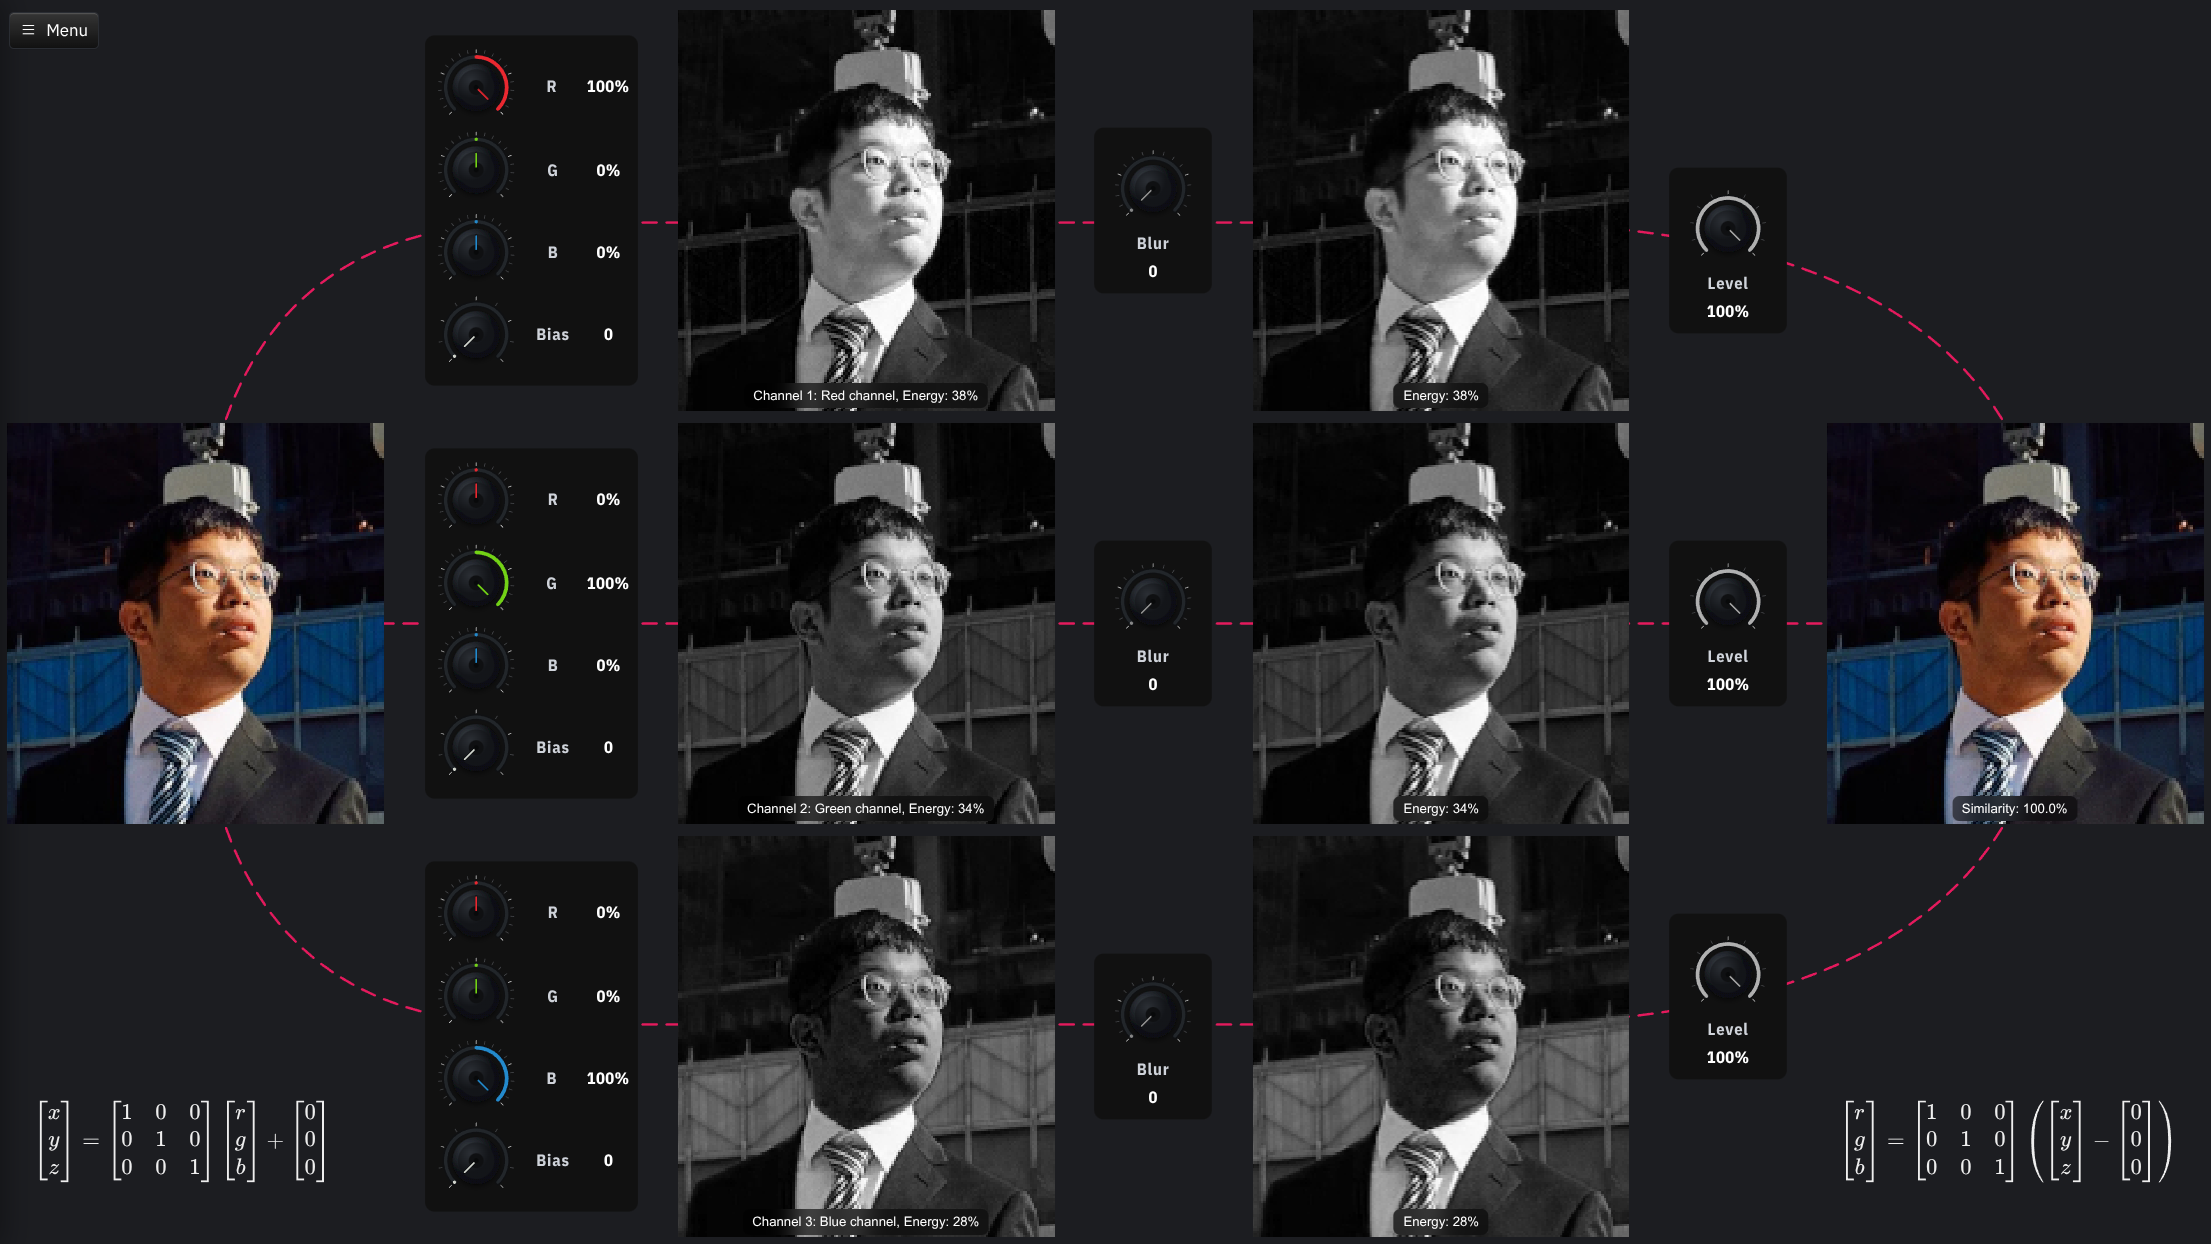
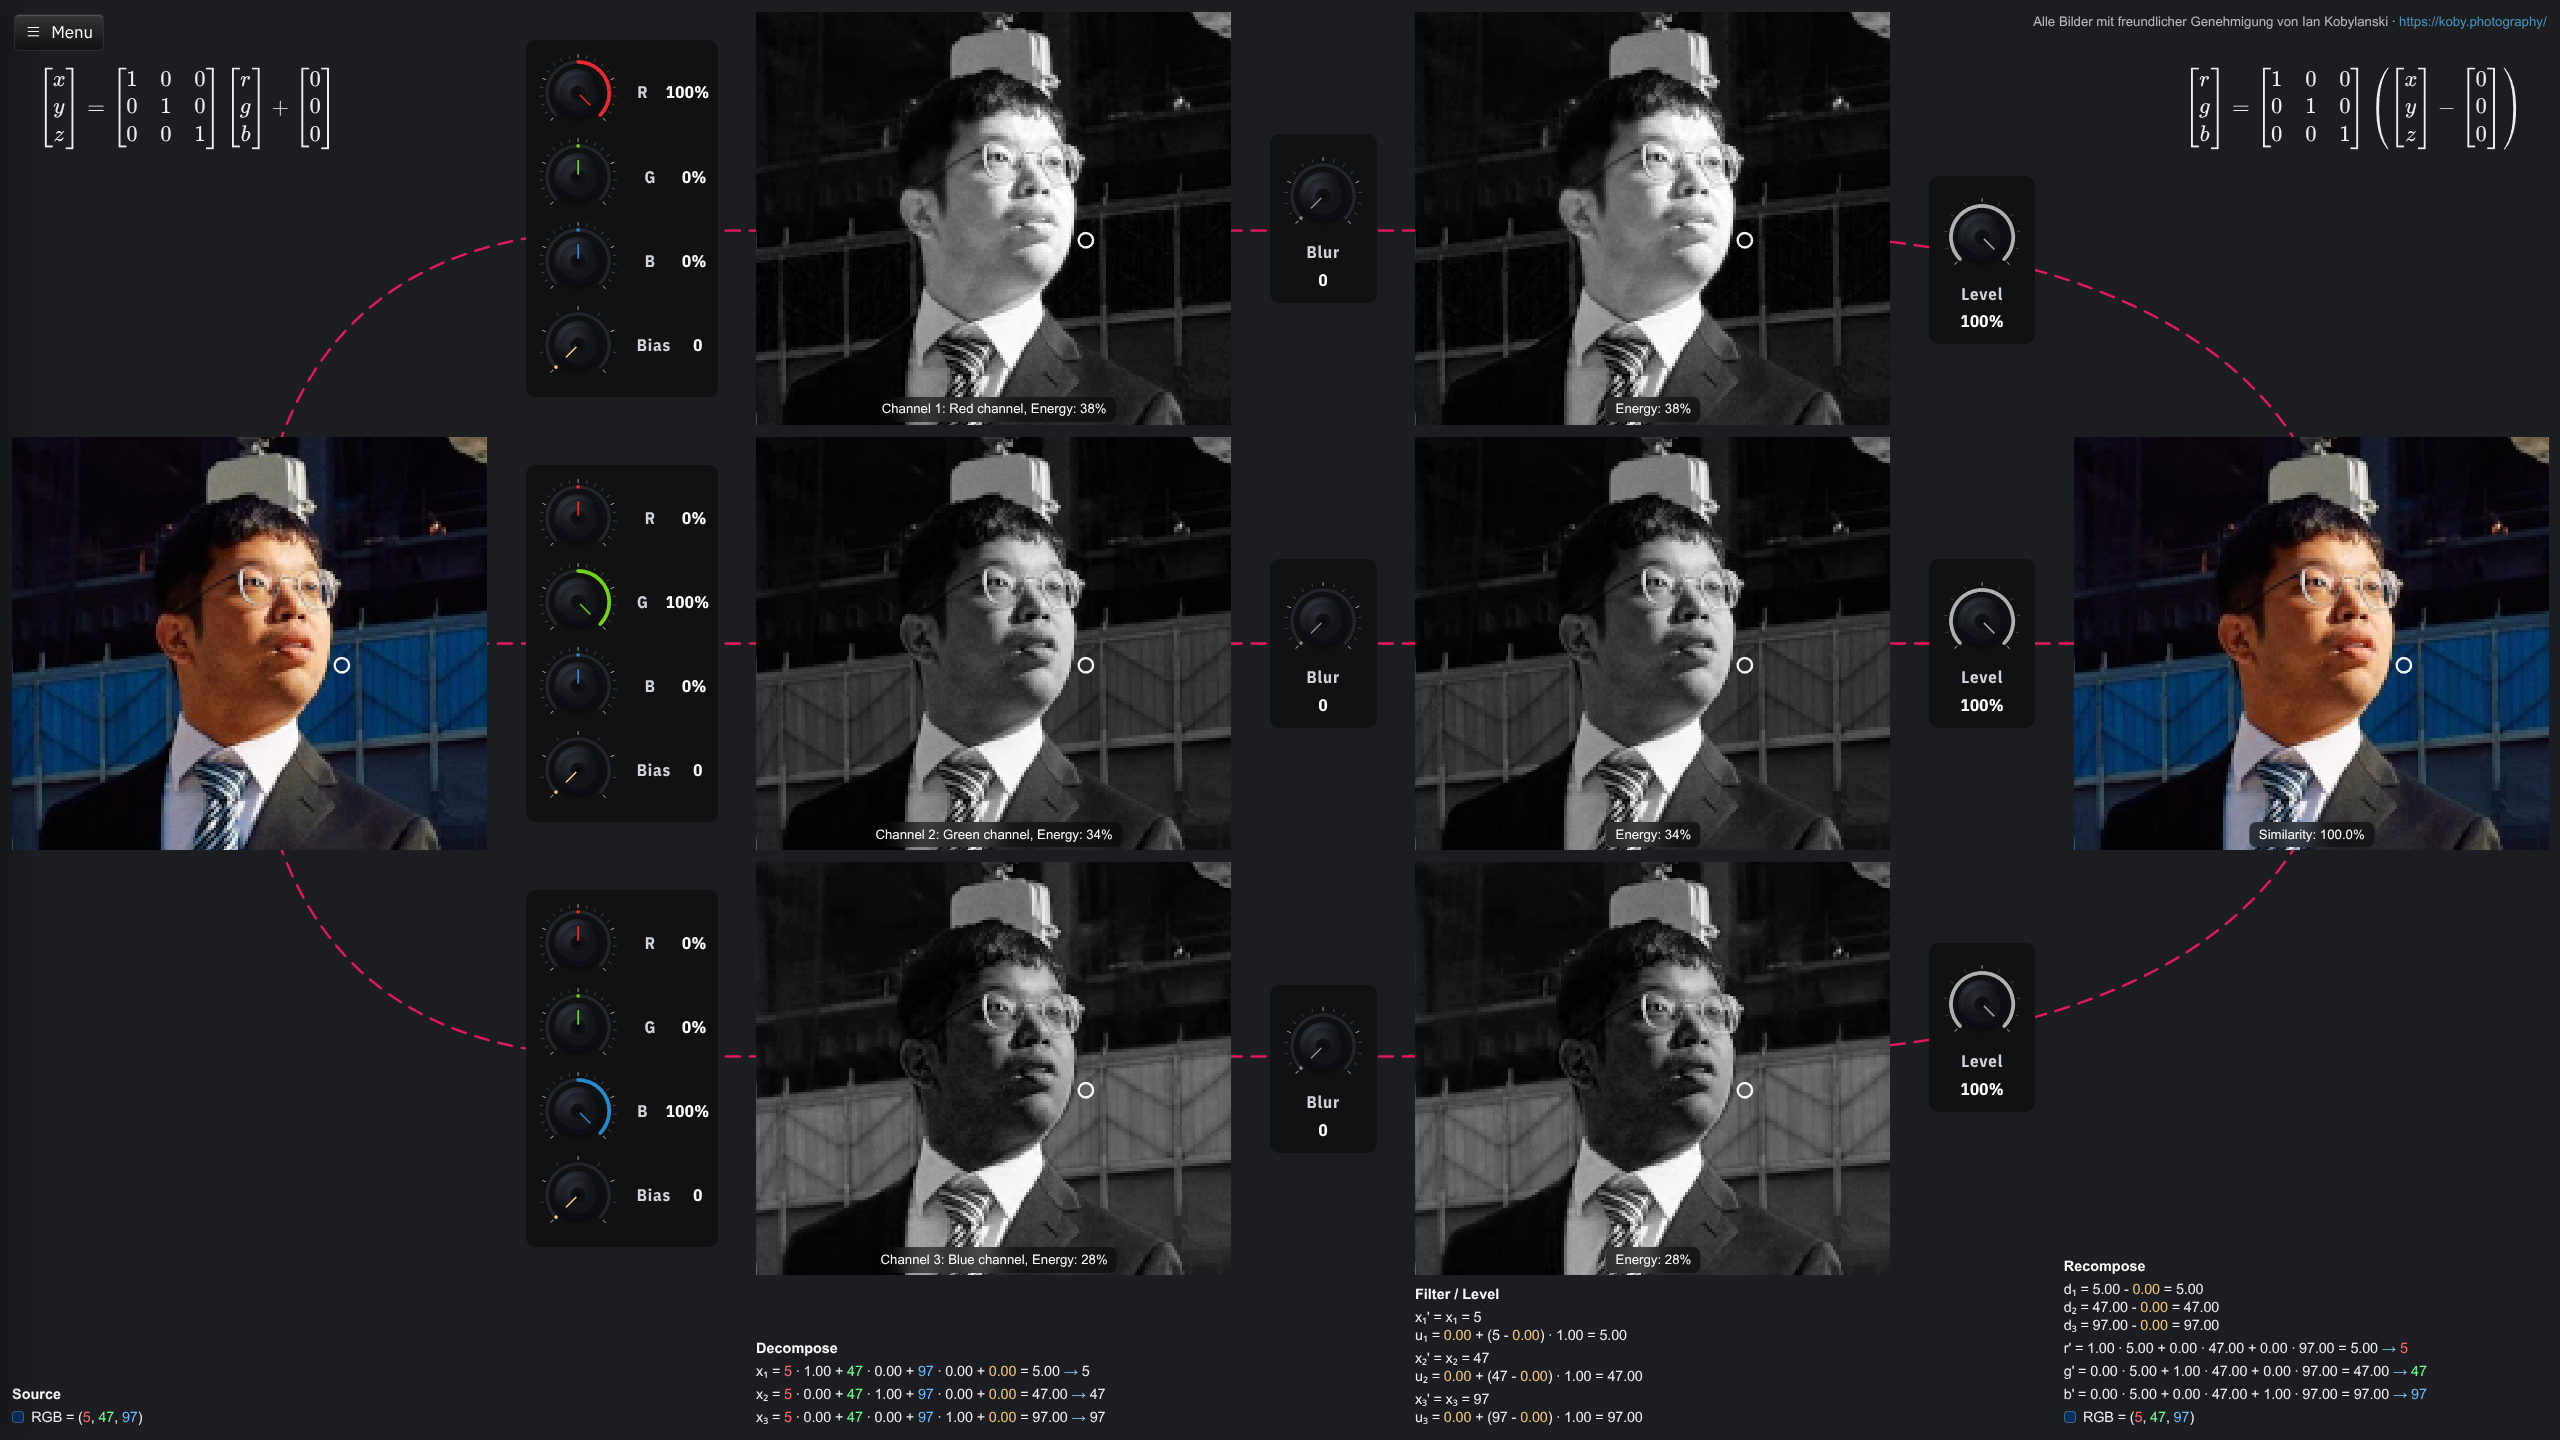
yay

diff --git a/src/static/dct.html b/src/static/dct.html
@@ -99,7 +99,7 @@
         justify-content: center;
         align-items: center;
         overflow: hidden;
-        outline: 1px solid #444;
+        /* outline: 1px solid #444; */
     }
 
     .canvas_container canvas {
@@ -134,7 +134,7 @@
         display: flex;
         flex-direction: column;
         justify-content: center;
-        outline: 1px solid #444;
+        /* outline: 1px solid #444; */
     }
 
     .channel-panel {
